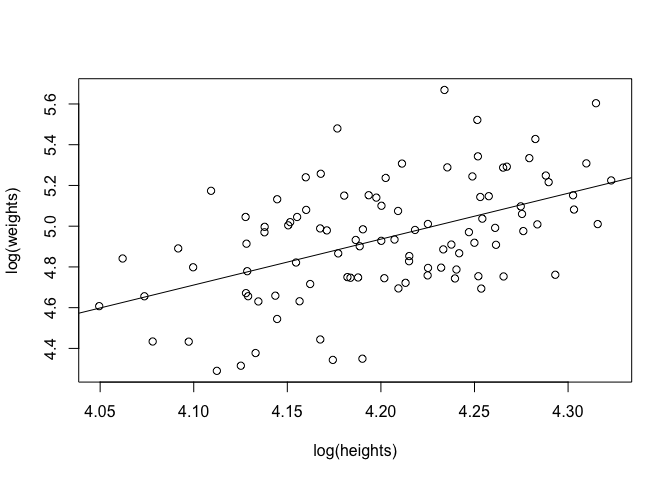
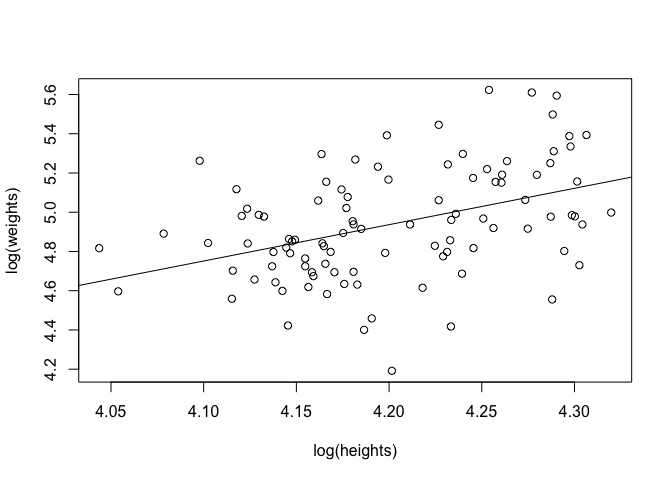
fix ch4 images

diff --git a/ch4/arm_ch4p1.md b/ch4/arm_ch4p1.md
@@ -41,11 +41,11 @@ display(m1)
 ```
 ## lm(formula = log.weights ~ log.heights, data = df)
 ##             coef.est coef.se
-## (Intercept) -4.52     1.65  
-## log.heights  2.25     0.39  
+## (Intercept) -2.84     1.70  
+## log.heights  1.85     0.41  
 ## ---
 ## n = 100, k = 2
-## residual sd = 0.25, R-Squared = 0.25
+## residual sd = 0.26, R-Squared = 0.18
 ```
 
 ```r
